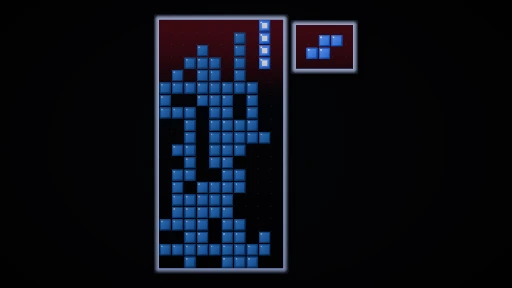
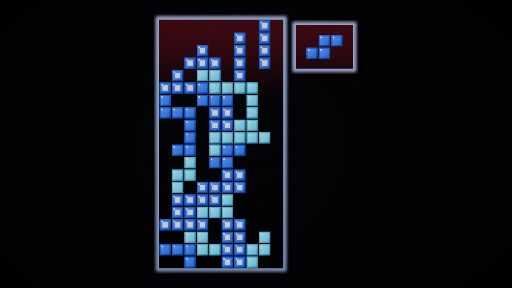
Color every landed Tetris cell by the piece that placed it

Changed region(s): [[0.3125, 0.0938, 0.5312, 0.9375]]

diff --git a/frontend/src/scenes/tetris/index.ts b/frontend/src/scenes/tetris/index.ts
@@ -6,8 +6,9 @@ import { clamp01 } from '@kit/mix';
 import { coverage, rgb, sdBox } from '@kit/shapes2d';
 import { Stage2DScene, type Stage2D } from '@kit/stage2d';
 import type { FrameUpdate, LegendSpec, SceneContext, SceneFactory, ScenePost } from '@kit/types';
-import { TETRIS_H, TETRIS_W, tetrisByte, tetrisCleared, tetrisClearedRow, tetrisFilled, tetrisGame, tetrisLines, tetrisPiece, tetrisScore, type TetrisPiece } from '@sim/envs/tetris';
-import type { EnvFrame } from '@sim/types';
+import { TETRIS_H, TETRIS_W, tetrisByte, tetrisCleared, tetrisClearedRow, tetrisFilled, tetrisGame, tetrisLines, tetrisPiece, tetrisPlaced, tetrisScore, type TetrisPiece } from '@sim/envs/tetris';
+import { lastEvent } from '@sim/events';
+import { SIM_EVENT_TYPES, type EnvFrame, type EventStream } from '@sim/types';
 import { constantList, constantRecords } from '../../data/envs';
 import { formatCount } from '../../format';
 
@@ -35,6 +36,7 @@ const PALETTE: readonly (readonly [number, number])[] = [
 ];
 const CORE = 0xcfd3de;
 const DEAD = 0x5a6f9e;
+const PLACE = SIM_EVENT_TYPES.indexOf('place');
 
 const flat = (width: number, depth: number) => new THREE.PlaneGeometry(width, depth).rotateX(-Math.PI / 2);
 const easeOut = (t: number) => 1 - (1 - t) ** 3;
@@ -63,7 +65,11 @@ class TetrisScene extends Stage2DScene {
   private readonly shown = new Uint8Array(CELLS);
   private readonly sink = new Float32Array(CELLS);
   private readonly wiped = new Float32Array(CELLS);
-  private readonly colors = PALETTE.map(([a, b]) => ({ a: new THREE.Color(a), b: new THREE.Color(b), stack: new THREE.Color(a).lerp(new THREE.Color(b), 0.3).lerp(new THREE.Color(0x2c3140), 0.55).multiplyScalar(0.85) }));
+  private readonly colors = PALETTE.map(([a, b]) => ({ a: new THREE.Color(a), b: new THREE.Color(b) }));
+  private readonly landed = new Uint8Array(CELLS);
+  private readonly settled = new Uint8Array(CELLS);
+  private settledGame = -1;
+  private settledStep = -1;
   private readonly deadTint = new THREE.Color(DEAD);
   private readonly matrix = new THREE.Matrix4();
   private readonly at = new THREE.Vector3();
@@ -208,14 +214,15 @@ class TetrisScene extends Stage2DScene {
     const ghostAge = (time - this.ghostAt) / GHOST_SECONDS;
     this.chill.value = ghostAge >= 0 && ghostAge < 1 ? (1 - ghostAge) ** 2 : 0;
 
+    this.settle(frame, step, tetrisGame(now.words));
     const clearing = this.clearing(frame, step, now, piece, frac);
     for (let c = 0; c < CELLS; c++) {
       const row = Math.floor(c / TETRIS_W), col = c % TETRIS_W;
       this.at.set(col - HALF_W + 0.5, 0, row - HALF_H + 0.5);
       if (clearing) {
         this.at.z += this.sink[c]!;
-        this.place(c, this.shown[c] ? 3 : -1, 1, this.wiped[c]!, palette.stack);
-      } else this.place(c, tetrisFilled(now.words, c) ? 3 : -1, 1, 0, palette.stack);
+        this.block(c, this.shown[c] ? this.pieceAt(this.landed, c) : -1, this.wiped[c]!, palette);
+      } else this.block(c, tetrisFilled(now.words, c) ? this.pieceAt(this.settled, c) : -1, 0, palette);
       this.at.set(col - HALF_W + 0.5, 0, row - HALF_H + 0.5);
       const fade = ghostAge >= 0 && ghostAge < 1 && this.ghost[c] ? 1 - clamp01((ghostAge - (row / TETRIS_H) * 0.35) / 0.65) : 0;
       this.place(GHOST + c, fade > 0 ? 3 : -1, fade, 0.15 * fade, this.deadTint);
@@ -235,7 +242,7 @@ class TetrisScene extends Stage2DScene {
       const o = offsets[k];
       const visible = piece.delay === 0 && o !== undefined && piece.y + o.dy >= 0;
       if (o) this.at.set(x + o.dx - HALF_W + 0.5, 0, y + o.dy - HALF_H + 0.5);
-      this.place(LIVE + k, visible ? STYLE[piece.type]! : -1, 1, 0, STYLE[piece.type] === 2 ? palette.b : palette.a);
+      this.block(LIVE + k, visible ? piece.type : -1, 0, palette);
     }
     const preview = this.shapes[this.spawn[piece.next]!] ?? [];
     let minX = Infinity, maxX = -Infinity, minY = Infinity, maxY = -Infinity;
@@ -245,7 +252,7 @@ class TetrisScene extends Stage2DScene {
     for (let k = 0; k < 4; k++) {
       const o = preview[k];
       if (o) this.at.set(BOX.x + o.dx - (minX + maxX) / 2, 0, BOX.y + o.dy - (minY + maxY) / 2);
-      this.place(NEXT + k, o ? STYLE[piece.next]! : -1, 1, 0, STYLE[piece.next] === 2 ? palette.b : palette.a);
+      this.block(NEXT + k, o ? piece.next : -1, 0, palette);
     }
     this.cells!.instanceMatrix.needsUpdate = true;
     this.lookAttr!.needsUpdate = true;
@@ -294,6 +301,44 @@ class TetrisScene extends Stage2DScene {
       }
     }
     return true;
+  }
+
+  private settle(frame: FrameUpdate, step: number, game: number): void {
+    const log: EventStream = frame.eventLog;
+    if (frame.scrubbed || game !== this.settledGame || step < this.settledStep) {
+      this.settled.fill(0);
+      this.settledGame = game;
+      this.settledStep = lastEvent(log, 'done', step) ?? 0;
+    }
+    for (let b = Math.floor((this.settledStep + 1) / log.blockFrames); b <= Math.floor(step / log.blockFrames); b++) {
+      const block = log.blocks[b];
+      if (!block) throw new Error(`Tetris events for block ${b} are not derived`);
+      for (let i = 0; i < block.steps.length; i++) if (block.kinds[i] === PLACE && block.steps[i]! > this.settledStep && block.steps[i]! <= step) this.lock(block.values[i]!);
+    }
+    this.settledStep = step;
+  }
+
+  private lock(value: number): void {
+    const p = tetrisPlaced(value);
+    for (const o of this.shapes[p.orient]!) {
+      const cell = (p.y + o.dy) * TETRIS_W + p.x + o.dx;
+      if (cell >= 0) this.settled[cell] = p.type + 1;
+    }
+    this.landed.set(this.settled);
+    for (let row = Math.max(0, p.y - 2); row <= Math.min(TETRIS_H - 1, p.y + 1); row++) {
+      if (!this.settled.subarray(row * TETRIS_W, (row + 1) * TETRIS_W).every(Boolean)) continue;
+      this.settled.copyWithin(TETRIS_W, 0, row * TETRIS_W);
+      this.settled.fill(0, 0, TETRIS_W);
+    }
+  }
+
+  private pieceAt(cells: Uint8Array, c: number): number {
+    if (!cells[c]) throw new Error(`Tetris cell ${c} is filled but no placed piece covers it`);
+    return cells[c]! - 1;
+  }
+
+  private block(i: number, type: number, flash: number, palette: { a: THREE.Color; b: THREE.Color }): void {
+    this.place(i, type < 0 ? -1 : STYLE[type]!, 1, flash, STYLE[type] === 2 ? palette.b : palette.a);
   }
 
   private place(i: number, kind: number, alpha: number, flash: number, tint: THREE.Color): void {

diff --git a/frontend/capture.ts b/frontend/capture.ts
@@ -171,7 +171,7 @@ async function tile(send: Send, urls: readonly (string | null)[], labels: readon
 const save = (url: string, out: string) => writeFileSync(out, Buffer.from(url.slice(url.indexOf(',') + 1), 'base64'));
 const formatOf = (out: string) => out.endsWith('.png') ? 'image/png' : 'image/webp';
 
-const USAGE = 'usage: bun capture.ts <envId> <step> <out.webp|out.png> [seed] [--debug] [--dpr 2] [--size 1280x720] | bun capture.ts sheet <out.png> <cell>... [--dpr 2] [--jobs 2] | bun capture.ts perf <cell>... | bun capture.ts posters   (cell: <envId>@<step>[~seed][+debug]; more than 9 cells write <out>-01.png, <out>-02.png, ...)';
+const USAGE = 'usage: bun capture.ts <envId> <step> <out.webp|out.png> [seed] [--debug] [--dpr 2] [--size 1280x720] | bun capture.ts sheet <out.png> <cell>... [--dpr 2] [--jobs 2] | bun capture.ts perf <cell>... | bun capture.ts posters [name...]   (cell: <envId>@<step>[~seed][+debug]; more than 9 cells write <out>-01.png, <out>-02.png, ...)';
 const FLAT = 4;
 const STALL = /did not answer|closed its debugging socket|No target with given id|Failed to open a new tab/;
 const cellOf = (spec: string): Omit<Shot, 'dpr' | 'width' | 'height' | 'format'> => {
@@ -208,7 +208,7 @@ const each = async <T>(items: readonly T[], n: number, work: (worker: Worker, it
 try {
   if (positional[0] === 'posters') {
     const [worker] = await pool(1), send = worker!.browser.send, page = await openPage(send, dpr);
-    await send('Page.navigate', { url: `${ORIGIN}/?posters=1` }, page.sessionId);
+    await send('Page.navigate', { url: `${ORIGIN}/?posters=${positional.slice(1).join(',')}` }, page.sessionId);
     for (let title = ''; !title.startsWith('posters:'); await Bun.sleep(250)) title = await evaluate(send, page.sessionId, 'document.title');
     console.log(await evaluate(send, page.sessionId, 'document.title'));
     for (const error of page.errors.slice(0, 3)) console.log(`page error: ${error.split('\n')[0]!.slice(0, 300)}`);

diff --git a/frontend/src/sim/envs/tetris.ts b/frontend/src/sim/envs/tetris.ts
@@ -15,6 +15,8 @@ export function tetrisPiece(words: ArrayLike<number>): TetrisPiece {
   };
 }
 
+export const tetrisPlaced = (value: number): Pick<TetrisPiece, 'x' | 'y' | 'orient' | 'type'> => ({ x: value & 255, y: (value >>> 8) & 255, orient: (value >>> 16) & 255, type: (value >>> 24) & 255 });
+
 export const tetrisScore = (words: ArrayLike<number>): number => words[8]! >>> 0;
 export const tetrisLines = (words: ArrayLike<number>): number => words[9]! >>> 0;
 export const tetrisGame = (words: ArrayLike<number>): number => words[10]! >>> 0;
@@ -22,11 +24,11 @@ export const tetrisCleared = (words: ArrayLike<number>): number => words[11]! & 
 export const tetrisClearedRow = (words: ArrayLike<number>, i: number): number => ((words[11]! >>> (3 + 5 * i)) & 31) - 2;
 
 const DONE: SimEvent[] = [{ type: 'done' }];
-const CLEAR: SimEvent[] = [{ type: 'goal' }];
 
 export const tetrisDecoder: EnvDecoder = {
   slots: 7,
   discrete: true,
+  sequential: true,
   decode(frame, out) {
     const p = tetrisPiece(frame.words);
     out[0] = p.x;
@@ -43,7 +45,8 @@ export const tetrisDecoder: EnvDecoder = {
   },
   deriveEvents(prev, next) {
     if (next.done) return DONE;
-    const locked = tetrisByte(prev.words, 57) === 0 && tetrisByte(next.words, 57) > 0;
-    return locked && tetrisCleared(next.words) > 0 ? CLEAR : NO_EVENTS;
+    if (tetrisByte(prev.words, 57) !== 0 || tetrisByte(next.words, 57) === 0) return NO_EVENTS;
+    const place: SimEvent = { type: 'place', value: next.words[13]! };
+    return tetrisCleared(next.words) > 0 ? [{ type: 'goal' }, place] : [place];
   },
 };

diff --git a/frontend/src/posters.ts b/frontend/src/posters.ts
@@ -53,7 +53,7 @@ async function tapeAt(url: string, decoder: EnvDecoder) {
   return { header, initial, events, frameAt };
 }
 
-export async function renderPosters(): Promise<void> {
+export async function renderPosters(names: readonly string[]): Promise<void> {
   const failed: string[] = [], began = performance.now();
   let written = 0;
   try {
@@ -71,6 +71,7 @@ export async function renderPosters(): Promise<void> {
     const first = new Map<string, EnvDescriptor>();
     for (const environment of catalog) if (!first.has(environmentName(environment))) first.set(environmentName(environment), environment);
     for (const [name, environment] of first) {
+      if (names.length && !names.includes(name)) continue;
       try {
         const spec = sceneOf(environment), decoder = spec.decoder, { lanes, seeds } = envLanes(recording.meta, environment.envId);
         const [loaded, tape] = await Promise.all([spec.load(), tapeAt(`/api/runs/${encodeURIComponent(best.id)}/replay/${lanes[0]!}`, decoder)]);

diff --git a/frontend/src/sim/events.ts b/frontend/src/sim/events.ts
@@ -18,7 +18,7 @@ export function deriveBlock(block: Block, from: number, header: TapeHeader, deco
     const next = frameOf(block, row, from + row, header);
     if (previous !== null) for (const event of decoder.deriveEvents(previous, next)) {
       steps.push(next.step); kinds.push(SIM_EVENT_TYPES.indexOf(event.type));
-      values.push(event.type === 'cue' ? event.value : event.type === 'collection' ? ['banana', 'onion', 'jellyBean', 'truffle'].indexOf(event.item) : event.type === 'key' ? event.index : event.type === 'door' ? event.index | (event.open ? 1 << 16 : 0) : 0);
+      values.push(event.type === 'cue' || event.type === 'place' ? event.value : event.type === 'collection' ? ['banana', 'onion', 'jellyBean', 'truffle'].indexOf(event.item) : event.type === 'key' ? event.index : event.type === 'door' ? event.index | (event.open ? 1 << 16 : 0) : 0);
       xs.push(event.type === 'collection' ? event.x : 0); ys.push(event.type === 'collection' ? event.y : 0);
     }
     previous = next;

diff --git a/frontend/src/theater/tape.ts b/frontend/src/theater/tape.ts
@@ -72,7 +72,7 @@ export function openTape(runId: string, lane: number, environment: EnvDescriptor
       for (let at = lo; at < block.steps.length && block.steps[at] === step; at++) {
         const type = SIM_EVENT_TYPES[block.kinds[at]!]!;
         if (type === 'collection') out.push({ type, item: (['banana', 'onion', 'jellyBean', 'truffle'] as const)[block.values[at]!]!, reward: frameAt(step).reward as -1 | 0 | 1, x: block.cellX[at]!, y: block.cellY[at]! });
-        else if (type === 'cue') out.push({ type, value: block.values[at]! });
+        else if (type === 'cue' || type === 'place') out.push({ type, value: block.values[at]! });
         else if (type === 'key') out.push({ type, index: block.values[at]! });
         else if (type === 'door') out.push({ type, index: block.values[at]! & 0xffff, open: block.values[at]! >>> 16 !== 0 });
         else out.push({ type });

diff --git a/frontend/src/sim/types.ts b/frontend/src/sim/types.ts
@@ -7,6 +7,7 @@ export type SimEvent =
   | { type: 'key'; index: number }
   | { type: 'door'; index: number; open: boolean }
   | { type: 'cue'; value: number }
+  | { type: 'place'; value: number }
   | { type: 'teleport' }
   | { type: 'resurface' }
   | {
@@ -29,6 +30,7 @@ export const SIM_EVENT_TYPES = [
   'teleport',
   'resurface',
   'collection',
+  'place',
 ] as const satisfies readonly SimEvent['type'][];
 
 type CoversAllSimEvents = Exclude<SimEvent['type'], (typeof SIM_EVENT_TYPES)[number]>;

diff --git a/frontend/src/main.tsx b/frontend/src/main.tsx
@@ -8,5 +8,6 @@ for (const [slug, hex] of Object.entries(TOKENS.accents)) {
 }
 
 const mounted = globalThis as { oakRoot?: Root };
-if (new URLSearchParams(location.search).has('posters')) void renderPosters();
+const posters = new URLSearchParams(location.search).get('posters');
+if (posters !== null) void renderPosters(posters.split(',').filter(Boolean));
 else (mounted.oakRoot ??= createRoot(document.getElementById('app')!)).render(<App />);
